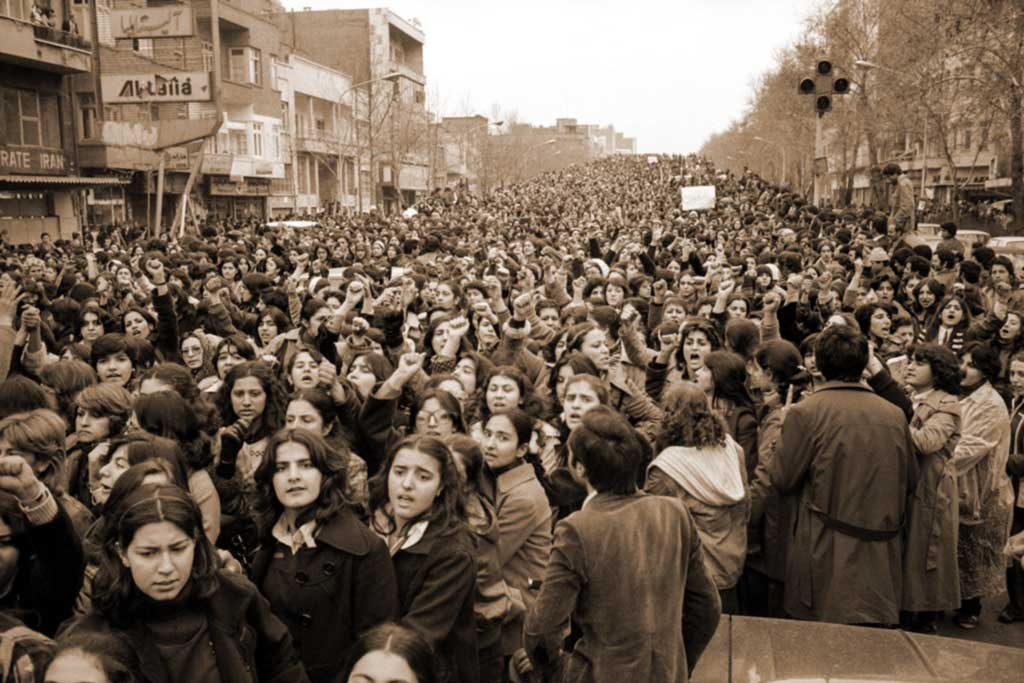
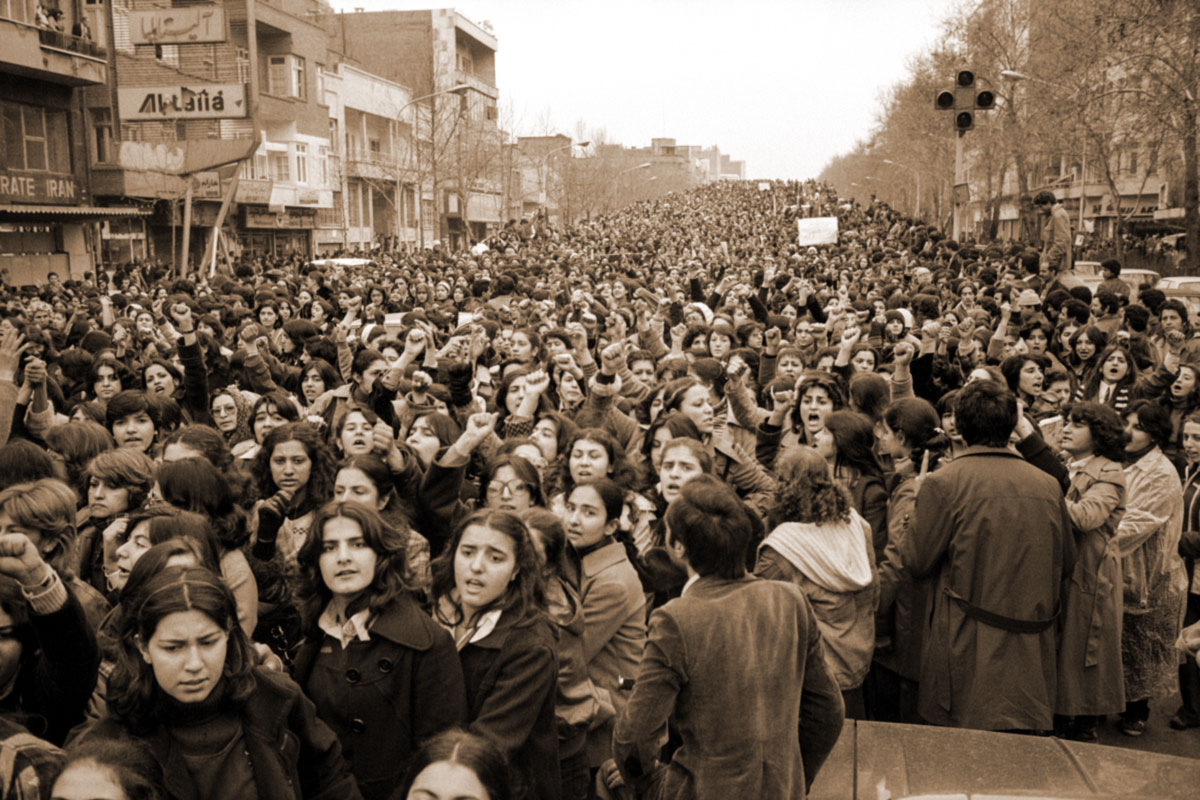
Adjust for new photo

diff --git a/styles/blocks/f-hero.css b/styles/blocks/f-hero.css
@@ -53,7 +53,7 @@ BLOCK f-hero
 
 	/*TODO: set background-image via js */
 /*	background-image: url(../../assets/image/projecthero.png);*/
-	background-image: url(../../assets/image/Sepian.png);
+	background-image: url(../../assets/image/Sepian.jpg);
 	background-repeat: no-repeat;
 	background-position: center bottom; /* cut sides until media query limit */
 }
@@ -118,9 +118,9 @@ BLOCK f-hero
 	padding-left: 0.8rem;
 
 	background-color: var(--color-black-transparent);
-  color: var(--color-white);
-  font-size: 4.5rem;
-  font-weight: bold;
+  	color: var(--color-white);
+ 	font-size: 4.5rem;
+ 	font-weight: bold;
 }
 
 .f-hero__text {
